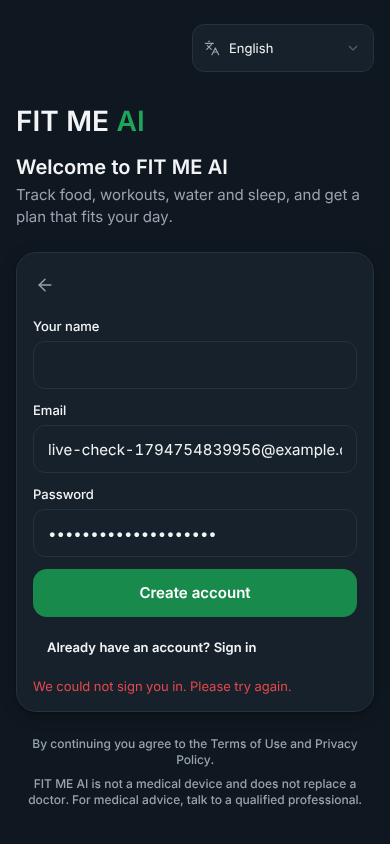
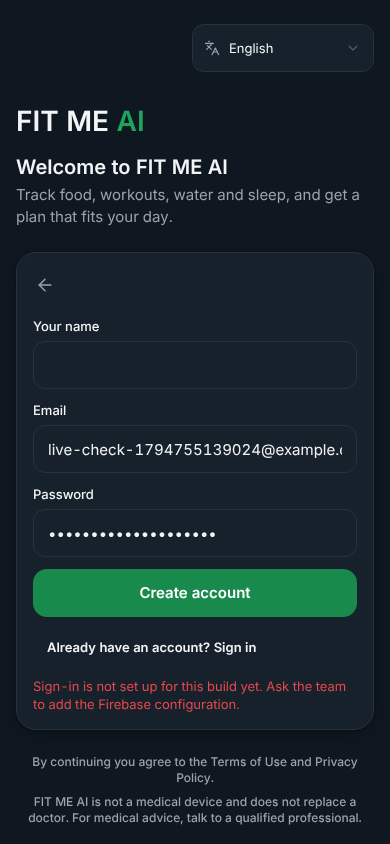
DEPLOY.md: record live status, billing-dependent parts and how to switch them on
Claude-Session: https://claude.ai/code/session_01SHbAHyHZhLwJXntA7b2gSg

Changed region(s): [[0.0615, 0.8009, 0.9231, 0.9858], [0.5846, 0.5237, 0.6769, 0.5545], [0.4923, 0.5237, 0.5538, 0.5545]]

diff --git a/docs/DEPLOY.md b/docs/DEPLOY.md
@@ -2,6 +2,21 @@
 
 Every deploy runs in GitHub Actions (`.github/workflows/deploy.yml`). Nobody deploys from a laptop.
 
+## Current status (2026-11-15)
+
+| Part | State |
+| --- | --- |
+| Website (Hosting) | **Live** at https://fit-me1.web.app, deployed by GitHub Actions on every push to `main` |
+| Firestore | `(default)` database, native mode, asia-south1; rules and indexes deployed by the workflow |
+| Reference data | Seeded once into empty collections: 5,000 USDA foods (+ micronutrients), 54 curated dishes, 102 exercises, appConfig |
+| Authentication | **Not started**: Firebase console → Authentication → Get started, then enable Email/Password and Google |
+| Billing | **Not linked to fit-me1**, so these are off: Cloud Functions (AI coach, AI food text, data export, account deletion), Secret Manager (`GEMINI_API_KEY`), Cloud Build, Cloud Run, Artifact Registry, the default Storage bucket and Storage rules |
+
+When billing is linked: enable the billing-only APIs (re-run `deploy/setup-gcp.sh`), store the Gemini key
+(`printf %s "<key>" | firebase functions:secrets:set GEMINI_API_KEY --project dev --data-file=-`), create the
+default Storage bucket (Firebase console → Storage → Get started, asia-south1), then delete `false &&` from the
+`if:` lines of the `storage` and `functions` jobs in `.github/workflows/deploy.yml`.
+
 ## Environments
 
 | Name | Firebase project | Status | How it deploys |
